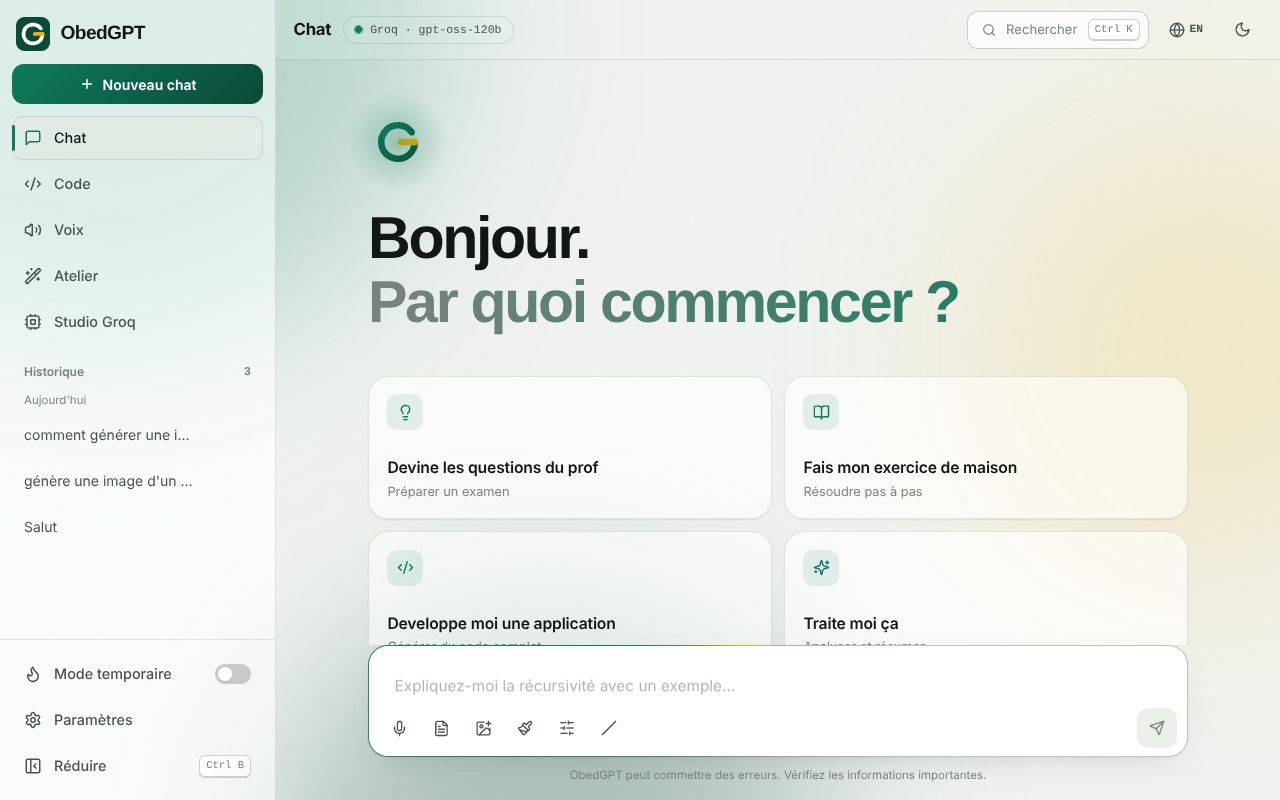
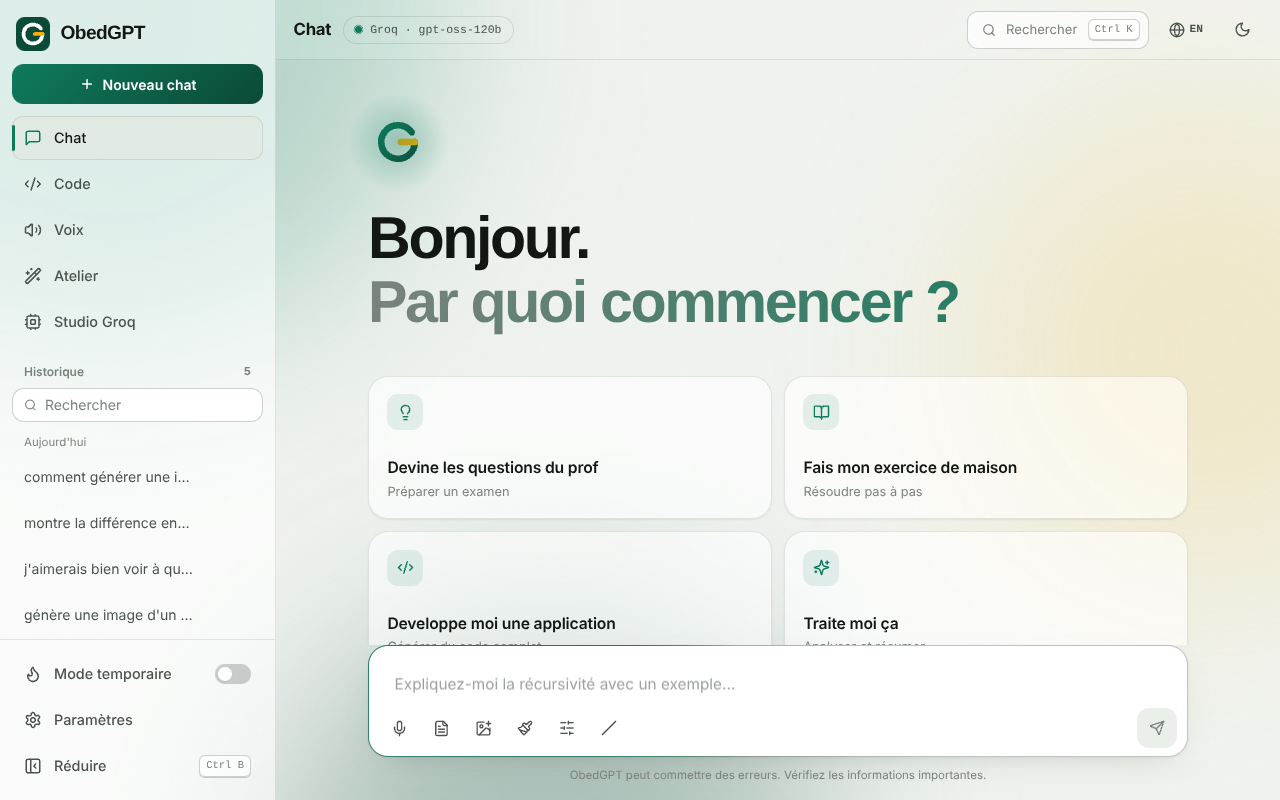
update

diff --git a/api/intent.js b/api/intent.js
@@ -1,0 +1,31 @@
+import { applyCors } from './utils/cors.js'
+import { guard, fail, chatOnce, getModels, hasModel, parseJSON, DEFAULT_MODEL } from './utils/groqCore.js'
+
+// POST /api/intent { text, lastImagePrompt? } → { image: boolean, prompt: string }
+// Petit classifieur (un modèle rapide, réponse JSON) : l'utilisateur demande-t-il qu'on lui CRÉE / MONTRE une image ?
+// Appelé seulement quand l'heuristique locale hésite (voir src/lib/imageIntent.js).
+const SYS = `Tu décides si le message d'un utilisateur demande à un assistant, qui PEUT générer des images, de CRÉER ou de MONTRER une image (photo, illustration, dessin, logo, affiche, portrait, fond d'écran...).
+image=true : demande explicite ou implicite d'obtenir une image. Exemples : « j'aimerais bien voir à quoi ressemble un lion », « montre-moi un coucher de soleil à Lomé », « je veux voir une maison moderne », « fais-en une version en noir et blanc » (modification de la dernière image).
+image=false : question de connaissance ou d'explication, demande de texte, de code, de document, d'analyse d'une image envoyée, de description écrite, conversation courante. En cas de doute : false.
+Si une dernière image est fournie et que le message demande de la modifier ou d'en refaire une variante, fusionne la demande avec le prompt de cette image.
+Schéma : {"image":boolean,"prompt":string}. « prompt » = description visuelle concise (sujet, décor, style) dans la langue de l'utilisateur, vide si image=false.
+Réponds UNIQUEMENT avec l'objet JSON.`
+
+export default async function handler(req, res) {
+  if (applyCors(req, res)) return
+  if (req.method !== 'POST') return fail(res, 405, 'Method not allowed')
+  if (guard(req, res, 'intent', 40)) return
+  const text = typeof req.body?.text === 'string' ? req.body.text.trim().slice(0, 600) : ''
+  if (text.length < 4) return fail(res, 400, 'Texte vide.', 'BAD_REQUEST')
+  const last = typeof req.body?.lastImagePrompt === 'string' ? req.body.lastImagePrompt.slice(0, 500) : ''
+  const cache = await getModels()
+  const model = hasModel(cache, 'openai/gpt-oss-20b') ? 'openai/gpt-oss-20b' : DEFAULT_MODEL
+  const user = (last ? `Dernière image générée : « ${last} »\n` : '') + `Message : ${text}`
+  const payload = { model, temperature: 0, max_tokens: 500, response_format: { type: 'json_object' }, reasoning_effort: 'low', messages: [{ role: 'system', content: SYS }, { role: 'user', content: user }] }
+  let r = await chatOnce(payload)
+  if (r.error && r.error.status === 400) { delete payload.reasoning_effort; r = await chatOnce(payload) }
+  if (r.error) return res.status(200).json({ image: false, prompt: '', degraded: true })
+  const j = parseJSON(r.data.choices?.[0]?.message?.content || '')
+  const image = j?.image === true
+  return res.status(200).json({ image, prompt: image ? String(j.prompt || text).slice(0, 900) : '' })
+}

diff --git a/src/lib/imageIntent.js b/src/lib/imageIntent.js
@@ -9,9 +9,9 @@ const VERB = "(?:genere|generer|generez|cree|creer|creez|fais|fait|faire|realise
 const ART = "(?:dessine|dessiner|dessines|peins|peindre|draw|paint|sketch|illustre|illustrate)"
 const DESIRE = "(?:je veux|je voudrais|j'aimerais|j'ai besoin d|i want|i'd like|i need|i would like)"
 
-const A = new RegExp(`(?:^|[\\s,;:.!?-])${VERB}(?:-moi|-nous|-lui)?\\b(?:\\s+[^\\s]+){0,5}?\\s+${NOUN}\\b`)
+const A = new RegExp(`(?:^|[\\s,;:.!?-])${VERB}(?:-moi|-nous|-lui)?\\b(?:\\s+[^\\s]+){0,5}?(?:\\s+|')${NOUN}\\b`)
 const B = new RegExp(`(?:^|[\\s,;:.!?-])${ART}(?:-moi|-nous)?\\b`)
-const C = new RegExp(`${DESIRE}\\s+(?:voir\\s+)?(?:[^\\s]+\\s+){0,2}${NOUN}\\b`)
+const C = new RegExp(`${DESIRE}\\s+(?:voir\\s+)?(?:[^\\s]+(?:\\s+|')){0,2}${NOUN}\\b`)
 
 // Sujets techniques ou d'analyse : ce n'est pas une demande d'image à créer.
 const TECH = /\b(docker|dockerfile|conteneur|container|kubernetes|k8s|iso|vm|machine virtuelle|disque|npm|pip|css|html|react|vue|javascript|python|java|php|sql|api|script|code|fonction|classe|svg|ascii|mermaid|diagramme|schema|uml|organigramme|graphique|chart|tableau|excel|pdf|word|docx|powerpoint|slides?|presentation|markdown|base64|favicon|background-image|dataset|ocr|analyse|analyser|decris|decrire|describe|explique|expliquer|traduis|resume|corrige|redimensionne|compresse|convertis|convertir)\b|<img|src=/
@@ -29,4 +29,16 @@ export function detectImageIntent(text) {
   const b = B.exec(head)
   if (b && /[a-z0-9]{3,}/.test(t.slice(b.index + b[0].length))) return text.trim()
   return null
+}
+
+// Préfiltre LARGE : le message pourrait-il être une demande d'image formulée librement ?
+// Si oui (et seulement alors), le serveur tranche avec un petit modèle (api/intent.js). Aucun coût pour les autres messages.
+const VISUAL = /\b(voir|vois|voie|montre|montrer|ressemble|ressembler|visualise|visualiser|imagine|imaginer|represente|representer|apparence|aspect|look|looks|picture|image|images|photo|photos|dessin|illustration|portrait|peinture|affiche|logo|poster|wallpaper|visuel|show|see|sketch|draw|paint|render)\b/
+const EDIT = /\b(plus|moins|version|couleur|couleurs|noir|blanc|style|fond|change|changer|modifie|modifier|remplace|ajoute|enleve|retire|refais|recommence|autre|differente|different|agrandis|variante|again|another|more|less|instead|brighter|darker|bigger|smaller)\b/
+
+export function maybeImageRequest(text, { afterImage = false } = {}) {
+  if (typeof text !== 'string' || text.length < 6 || text.length > 300 || text.startsWith('/')) return false
+  const t = norm(text)
+  if (TECH.test(t) || /^\s*(comment|pourquoi|how|why)\b/.test(t)) return false
+  return VISUAL.test(t) || (afterImage && text.length <= 160 && EDIT.test(t))
 }

diff --git a/tests/intent.test.js b/tests/intent.test.js
@@ -1,0 +1,42 @@
+import { describe, it, expect, vi } from 'vitest'
+process.env.GROQ_API_KEYS = 'gsk_test'
+const { default: intent } = await import('../api/intent.js')
+const { maybeImageRequest } = await import('../src/lib/imageIntent.js')
+
+const call = body => new Promise(resolve => {
+  const res = { h: {}, status(s) { this.code = s; return this }, setHeader() {}, end() { resolve({ code: this.code }) }, json(o) { resolve({ code: this.code, body: o }); return this } }
+  intent({ method: 'POST', headers: { origin: '' }, body, query: {}, url: '/', socket: { remoteAddress: '9.9.9.' + Math.floor(Math.random() * 250) } }, res)
+})
+const groq = content => vi.stubGlobal('fetch', vi.fn(async url => String(url).endsWith('/models')
+  ? new Response(JSON.stringify({ data: [{ id: 'openai/gpt-oss-20b' }, { id: 'openai/gpt-oss-120b' }] }), { status: 200 })
+  : new Response(JSON.stringify({ choices: [{ message: { content } }] }), { status: 200, headers: { 'content-type': 'application/json' } })))
+
+describe('/api/intent', () => {
+  it('image=true renvoie le prompt', async () => {
+    groq('{"image":true,"prompt":"un lion majestueux dans la savane"}')
+    const r = await call({ text: "j'aimerais bien voir à quoi ressemble un lion" })
+    expect(r.body).toEqual({ image: true, prompt: 'un lion majestueux dans la savane' })
+  })
+  it('image=false pour une question de connaissance', async () => {
+    groq('{"image":false,"prompt":""}')
+    expect((await call({ text: 'montre la différence entre un lion et un tigre' })).body.image).toBe(false)
+  })
+  it('JSON invalide : pas d\'image', async () => {
+    groq('désolé, je ne sais pas')
+    expect((await call({ text: 'fais-moi voir un lion' })).body.image).toBe(false)
+  })
+  it('texte vide : 400', async () => { expect((await call({ text: '' })).code).toBe(400) })
+})
+
+describe('maybeImageRequest (préfiltre)', () => {
+  it('laisse passer les formulations libres', () => {
+    expect(maybeImageRequest("j'aimerais bien voir à quoi ressemble un lion")).toBe(true)
+    expect(maybeImageRequest('fais-en une version en noir et blanc', { afterImage: true })).toBe(true)
+  })
+  it('ignore les messages sans indice visuel, techniques ou trop longs', () => {
+    expect(maybeImageRequest('bonjour, comment vas-tu ?')).toBe(false)
+    expect(maybeImageRequest('crée une image docker')).toBe(false)
+    expect(maybeImageRequest('fais-en une version en noir et blanc')).toBe(false)
+    expect(maybeImageRequest('voir '.repeat(100))).toBe(false)
+  })
+})

diff --git a/src/components/modes/ChatMode.jsx b/src/components/modes/ChatMode.jsx
@@ -20,7 +20,7 @@ import { postJson } from '../../lib/api'
 import { recordMic, toWavChunks, imageToDataUrls } from '../../lib/audio'
 import { transcribeBlob } from '../../lib/api'
 import { speakText } from '../../lib/speaker'
-import { detectImageIntent } from '../../lib/imageIntent'
+import { detectImageIntent, maybeImageRequest } from '../../lib/imageIntent'
 import { newImageId, saveImage, getImage } from '../../lib/gallery'
 
 const BASE_SYSTEM_PROMPT = "Tu es ObedGPT, un assistant IA intelligent créé par Obed Elom AGBEBAVI. Si on te demande qui t'a créé/développé, réponds que c'est Obed Elom AGBEBAVI. Réponds dans la langue de l'utilisateur. Utilise LaTeX pour les maths : $...$ inline, $$...$$ pour les blocs."
@@ -364,6 +364,22 @@ export default function ChatMode() {
       const list = [...messages, { role: 'user', content: text }]
       setMessages(list); setInput('')
       return generateImage(auto, list, true)
+    }
+    // Formulation libre (« j'aimerais voir à quoi ressemble un lion ») : un petit modèle tranche, seulement si le préfiltre hésite.
+    const lastImg = [...messages].reverse().find(m => m.role === 'assistant')
+    const afterImage = !!(lastImg?.genId || lastImg?.genImage)
+    if (prefs.autoImage && !prefs.agent && attachments.length === 0 && !(activeDocs?.length) && maybeImageRequest(text, { afterImage })) {
+      const list = [...messages, { role: 'user', content: text }]
+      setMessages(list); setInput(''); setImgBusy(true)
+      let verdict = null
+      try {
+        const ac = new AbortController(); const to = setTimeout(() => ac.abort(), 5000)
+        verdict = await postJson('/api/intent', { text, lastImagePrompt: afterImage ? (lastImg.genPrompt || '') : '' }, ac.signal)
+        clearTimeout(to)
+      } catch {}
+      setImgBusy(false)
+      if (verdict?.image) return generateImage(verdict.prompt || text, list, true)
+      return sendFromMessages(list)
     }
     speakerRef.current?.stop(); setSpeakingIdx(null)
     const imgs = attachments

diff --git a/tests/imageIntent.test.js b/tests/imageIntent.test.js
@@ -12,6 +12,10 @@ describe('detectImageIntent : demandes d\'image', () => {
     'make a poster for a jazz night',
     'montre-moi une image de la ville de Lomé la nuit',
     'draw a cat wearing a hat',
+    "genere l'image d'une femme enceinte",
+    "génère-moi l'image d'un chat",
+    "crée l'illustration d'un lion",
+    "je veux l'image d'une maison moderne",
   ])('%s', t => expect(d(t)).toBeTruthy())
 })
 

diff --git a/functions/api/[[route]].js b/functions/api/[[route]].js
@@ -16,6 +16,7 @@ const ROUTES = {
   tools: () => import('../../api/tools.js'),
   batch: () => import('../../api/batch.js'),
   share: () => import('../../api/share.js'),
+  intent: () => import('../../api/intent.js'),
   health: () => import('../../api/health.js'),
   image: () => import('../../api/image.js'),
 }
